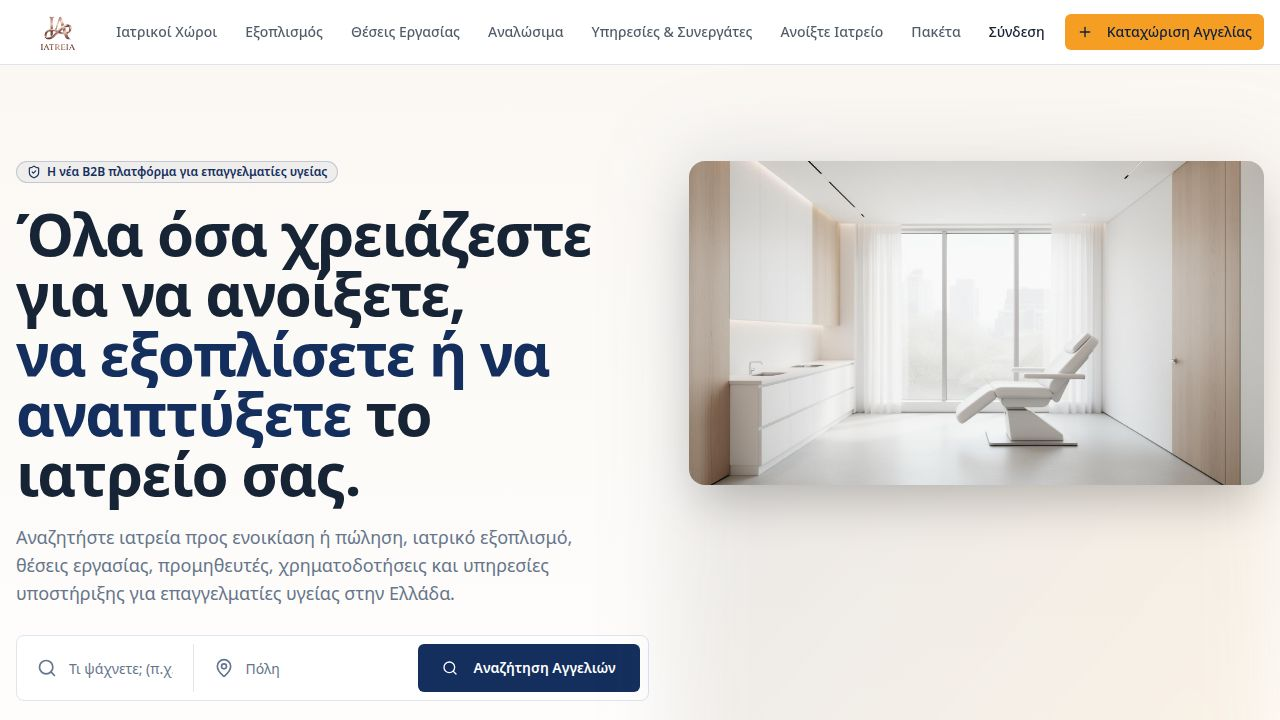
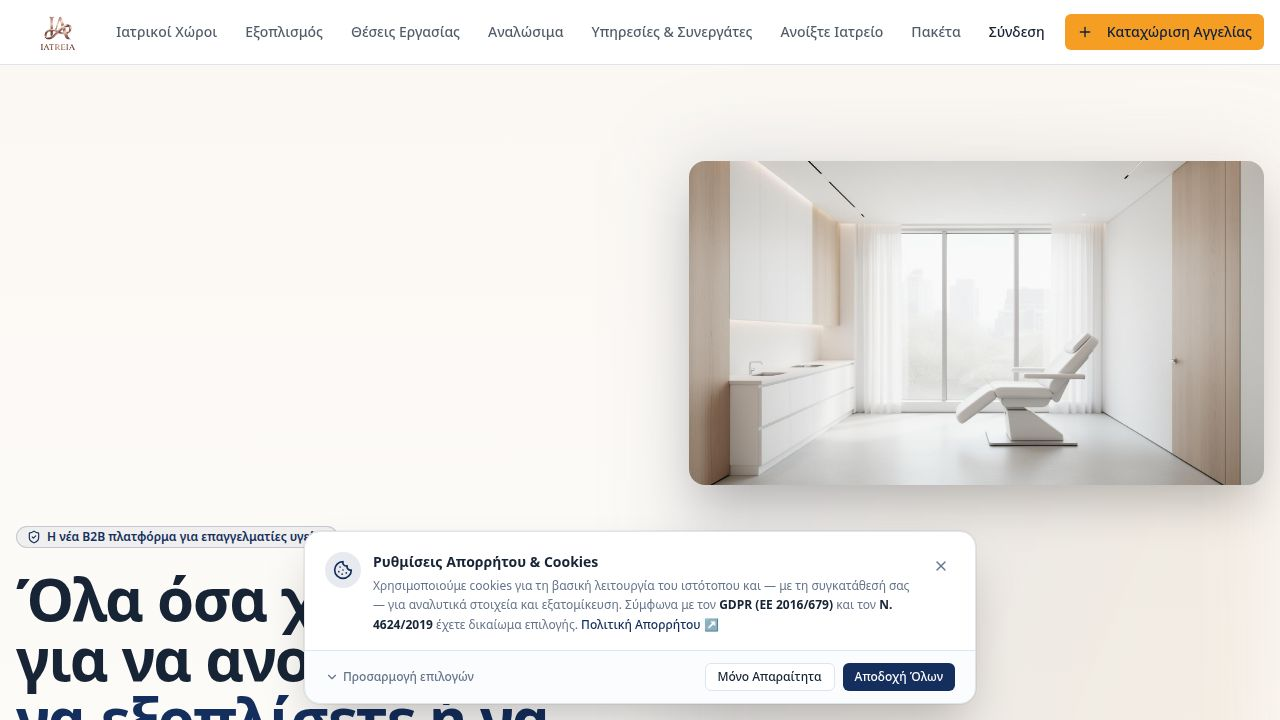
Update website with new images, subscription management, and refined messaging
Refactor the homepage hero section with a rotating image carousel, remove the "trend" box, add a Stripe customer portal link to the subscription management page, update pricing information, and remove all mentions of response time guarantees across various pages.

Replit-Commit-Author: Agent
Replit-Commit-Session-Id: 788615c2-4eec-48de-876c-6cf172338783
Replit-Commit-Checkpoint-Type: full_checkpoint
Replit-Commit-Event-Id: ce3a156c-f760-43ab-8e09-0117bb959b77
Replit-Commit-Screenshot-Url: https://storage.googleapis.com/screenshot-production-us-central1/d56ad37e-5b50-4c80-9c7e-87e08ae63d48/788615c2-4eec-48de-876c-6cf172338783/gmGPqKE
Replit-Helium-Checkpoint-Created: true

diff --git a/artifacts/iatreia/src/pages/Index.tsx b/artifacts/iatreia/src/pages/Index.tsx
@@ -2,7 +2,7 @@ import { useEffect, useState, type ComponentType } from "react";
 import { Link, useNavigate } from "react-router-dom";
 import {
   Search, MapPin, Building2, Stethoscope, Briefcase, Package, HandCoins,
-  ShieldCheck, ArrowRight, CheckCircle2, Sparkles, TrendingUp, Plus, Quote,
+  ShieldCheck, ArrowRight, CheckCircle2, Sparkles, Plus, Quote,
   Loader2,
 } from "lucide-react";
 import { Button } from "@/components/ui/button";
@@ -15,6 +15,13 @@ import { SiteFooter } from "@/components/layout/SiteFooter";
 import { ListingCard } from "@/components/listings/ListingCard";
 import { fetchFeaturedListings, fetchListingCounts, type DbListing, type ListingCounts } from "@/lib/listings";
 import heroImg from "@/assets/hero-clinic.jpg";
+
+const HERO_IMAGES = [
+  { src: heroImg, alt: "Σύγχρονο οδοντιατρείο" },
+  { src: "https://images.unsplash.com/photo-1576091160550-2173dba999ef?w=1600&q=80", alt: "Ιατρικό γραφείο" },
+  { src: "https://images.unsplash.com/photo-1551076805-e1869033e561?w=1600&q=80", alt: "Διαγνωστικό κέντρο" },
+  { src: "https://images.unsplash.com/photo-1519494026892-80bbd2d6fd0d?w=1600&q=80", alt: "Κλινική" },
+];
 
 type CategoryKey = keyof Omit<ListingCounts, "total">;
 
@@ -71,6 +78,12 @@ const Index = () => {
   const [featuredError, setFeaturedError] = useState(false);
   const [counts, setCounts] = useState<ListingCounts | null>(null);
   const [countsLoaded, setCountsLoaded] = useState(false);
+  const [heroIdx, setHeroIdx] = useState(0);
+
+  useEffect(() => {
+    const t = setInterval(() => setHeroIdx((i) => (i + 1) % HERO_IMAGES.length), 5000);
+    return () => clearInterval(t);
+  }, []);
 
   function handleHeroSearch(e: React.FormEvent) {
     e.preventDefault();
@@ -177,20 +190,25 @@ const Index = () => {
 
           <div className="relative hidden lg:block">
             <div className="absolute -inset-4 rounded-3xl bg-gradient-to-br from-primary/10 to-accent/10 blur-2xl" />
-            <img
-              src={heroImg}
-              alt="Σύγχρονος ιατρικός χώρος προς ενοικίαση στην Ελλάδα"
-              width={1600}
-              height={1024}
-              className="relative rounded-2xl object-cover shadow-2xl"
-            />
-            <Card className="absolute -bottom-6 -left-6 hidden w-64 p-4 shadow-2xl xl:block">
-              <div className="mb-1 flex items-center gap-2 text-xs font-semibold text-primary">
-                <TrendingUp className="h-4 w-4" /> ΤΑΣΗ
-              </div>
-              <div className="text-sm font-semibold">+38% νέες αγγελίες</div>
-              <div className="text-xs text-muted-foreground">τους τελευταίους 3 μήνες</div>
-            </Card>
+            {HERO_IMAGES.map((img, i) => (
+              <img
+                key={img.src}
+                src={img.src}
+                alt={img.alt}
+                width={1600}
+                height={1024}
+                className={`relative rounded-2xl object-cover shadow-2xl transition-opacity duration-1000 ${i === heroIdx ? "opacity-100" : "absolute inset-0 opacity-0"}`}
+              />
+            ))}
+            <div className="absolute bottom-4 right-4 flex gap-1.5">
+              {HERO_IMAGES.map((_, i) => (
+                <button
+                  key={i}
+                  onClick={() => setHeroIdx(i)}
+                  className={`h-1.5 rounded-full transition-all ${i === heroIdx ? "w-5 bg-white" : "w-1.5 bg-white/50"}`}
+                />
+              ))}
+            </div>
           </div>
         </div>
       </section>

diff --git a/artifacts/iatreia/src/components/PlanStatus.tsx b/artifacts/iatreia/src/components/PlanStatus.tsx
@@ -1,10 +1,12 @@
 import { Link } from "react-router-dom";
-import { ArrowRight, Sparkles } from "lucide-react";
+import { ArrowRight, Sparkles, CreditCard } from "lucide-react";
 import { Card, CardContent } from "@/components/ui/card";
 import { Badge } from "@/components/ui/badge";
 import { Button } from "@/components/ui/button";
 import { Progress } from "@/components/ui/progress";
 import { type SubscriptionStatus, PLAN_COLORS } from "@/lib/subscriptions";
+
+const STRIPE_PORTAL_URL = "https://billing.stripe.com/p/login/3cIcMY3dvdmx2ibgdtcbC00";
 
 type Props = {
   status: SubscriptionStatus;
@@ -61,22 +63,31 @@ export const PlanStatus = ({ status }: Props) => {
             </div>
           </div>
 
-          {nextPlan && (
-            <Button
-              asChild
-              size="sm"
-              variant={isAtLimit ? "default" : "outline"}
-              className={isAtLimit ? "shrink-0" : "shrink-0"}
-            >
-              <Link to={NEXT_PLAN_ROUTE[plan] ?? "/pricing"}>
-                <Sparkles className="mr-1.5 h-3.5 w-3.5" />
-                {isAtLimit
-                  ? `Αναβάθμιση σε ${nextPlan}`
-                  : `${remaining !== null ? `${remaining} εναπομείνασες θέσεις` : ""} · Αναβάθμιση`}
-                <ArrowRight className="ml-1.5 h-3.5 w-3.5" />
-              </Link>
-            </Button>
-          )}
+          <div className="flex shrink-0 flex-wrap gap-2">
+            {!isEnterprise && (
+              <Button asChild size="sm" variant="ghost">
+                <a href={STRIPE_PORTAL_URL} target="_blank" rel="noopener noreferrer">
+                  <CreditCard className="mr-1.5 h-3.5 w-3.5" />
+                  Συνδρομές & Τιμολόγια
+                </a>
+              </Button>
+            )}
+            {nextPlan && (
+              <Button
+                asChild
+                size="sm"
+                variant={isAtLimit ? "default" : "outline"}
+              >
+                <Link to={NEXT_PLAN_ROUTE[plan] ?? "/pricing"}>
+                  <Sparkles className="mr-1.5 h-3.5 w-3.5" />
+                  {isAtLimit
+                    ? `Αναβάθμιση σε ${nextPlan}`
+                    : `${remaining !== null ? `${remaining} εναπομείνασες θέσεις` : ""} · Αναβάθμιση`}
+                  <ArrowRight className="ml-1.5 h-3.5 w-3.5" />
+                </Link>
+              </Button>
+            )}
+          </div>
         </div>
       </CardContent>
     </Card>

diff --git a/artifacts/iatreia/src/pages/Report.tsx b/artifacts/iatreia/src/pages/Report.tsx
@@ -60,7 +60,7 @@ const Report = () => {
             <h1 className="mb-3 text-2xl font-bold">Αναφορά Υποβλήθηκε</h1>
             <p className="mb-6 text-muted-foreground">
               Σας ευχαριστούμε. Η ομάδα διαχείρισης της iatreia.gr θα εξετάσει την καταγγελία σας
-              και θα λάβει τα κατάλληλα μέτρα εντός 2 εργάσιμων ημερών.
+              και θα λάβει τα κατάλληλα μέτρα.
             </p>
             <div className="flex flex-col gap-2 sm:flex-row sm:justify-center">
               <Button asChild variant="outline">
@@ -174,14 +174,6 @@ const Report = () => {
               </ul>
             </div>
 
-            <div className="rounded-lg border bg-card p-5">
-              <h3 className="mb-2 font-semibold">Χρόνος Απόκρισης</h3>
-              <p className="text-muted-foreground">
-                Εξετάζουμε κάθε αναφορά εντός{" "}
-                <strong>2 εργάσιμων ημερών</strong>. Σοβαρές παραβιάσεις αντιμετωπίζονται
-                άμεσα.
-              </p>
-            </div>
 
             <div className="rounded-lg border bg-card p-5">
               <h3 className="mb-2 font-semibold">Άλλο πρόβλημα;</h3>

diff --git a/artifacts/iatreia/src/components/home/AskExperts.tsx b/artifacts/iatreia/src/components/home/AskExperts.tsx
@@ -6,7 +6,7 @@ import { Card } from "@/components/ui/card";
 const features = [
   { icon: Lock, title: "100% ανώνυμα", desc: "Κανένα όνομα, κανένα email στην ερώτησή σου." },
   { icon: ShieldCheck, title: "Πιστοποιημένοι ιατροί", desc: "Απαντούν μόνο επαληθευμένοι επαγγελματίες." },
-  { icon: Clock, title: "Απάντηση εντός 24h", desc: "Ειδοποίηση με email μόλις απαντήσει ειδικός." },
+  { icon: Clock, title: "Ειδοποίηση μέσω email", desc: "Λαμβάνεις ειδοποίηση μόλις απαντήσει ειδικός." },
 ];
 
 const AskExperts = () => (

diff --git a/artifacts/iatreia/src/pages/Ask.tsx b/artifacts/iatreia/src/pages/Ask.tsx
@@ -54,7 +54,7 @@ const Ask = () => {
           </div>
           <h1 className="text-4xl font-bold tracking-tight text-foreground">Ρώτα τους ειδικούς μας</h1>
           <p className="mt-3 text-muted-foreground">
-            Κάνε την ερώτησή σου ανώνυμα και πάρε αξιόπιστες απαντήσεις από πιστοποιημένους ιατρούς εντός 24 ωρών.
+            Κάνε την ερώτησή σου ανώνυμα και πάρε αξιόπιστες απαντήσεις από πιστοποιημένους ιατρούς.
           </p>
         </div>
       </section>

diff --git a/artifacts/iatreia/src/pages/ClinicLaunch.tsx b/artifacts/iatreia/src/pages/ClinicLaunch.tsx
@@ -68,7 +68,7 @@ const ClinicLaunch = () => (
           <div className="flex-1">
             <p className="font-bold text-foreground">Προσφέρετε υπηρεσίες ανοίγματος ιατρείου;</p>
             <p className="mt-0.5 text-sm text-muted-foreground">
-              Αποκτήστε αφιερωμένη σελίδα με πλήρη πρόταση, logo, website link & φόρμα επικοινωνίας απευθείας από γιατρούς. Εφάπαξ €1.499.
+              Αποκτήστε αφιερωμένη σελίδα με πλήρη πρόταση, logo, website link & φόρμα επικοινωνίας απευθείας από γιατρούς. Από €999.
             </p>
           </div>
           <Button asChild className="shrink-0">

diff --git a/artifacts/iatreia/src/pages/Contact.tsx b/artifacts/iatreia/src/pages/Contact.tsx
@@ -22,7 +22,7 @@ const Contact = () => {
           <Badge variant="secondary" className="mb-4">Επικοινωνία</Badge>
           <h1 className="text-4xl font-bold tracking-tight md:text-5xl">Πώς μπορούμε να βοηθήσουμε;</h1>
           <p className="mt-4 text-muted-foreground">
-            Στείλτε μας μήνυμα — απαντάμε εντός 1 εργάσιμης ημέρας.
+            Στείλτε μας μήνυμα και θα επικοινωνήσουμε μαζί σας.
           </p>
         </div>
       </section>

diff --git a/artifacts/iatreia/src/pages/ListingsPolicy.tsx b/artifacts/iatreia/src/pages/ListingsPolicy.tsx
@@ -78,7 +78,7 @@ const ListingsPolicy = () => {
             <h2 className="mb-3 text-xl font-semibold">4. Διαδικασία Ελέγχου και Έγκρισης</h2>
             <p>
               Κάθε αγγελία υπόκειται σε έλεγχο (moderation) από την ομάδα μας προτού δημοσιευτεί.
-              Ο χρόνος ελέγχου είναι συνήθως εντός 1 εργάσιμης ημέρας. Η Εταιρεία διατηρεί το δικαίωμα
+              Η Εταιρεία διατηρεί το δικαίωμα
               να:
             </p>
             <ul className="list-disc pl-6 mt-2 space-y-1">

diff --git a/artifacts/iatreia/src/pages/listings/index.tsx b/artifacts/iatreia/src/pages/listings/index.tsx
@@ -18,7 +18,7 @@ const ServicesCTA = () => (
     <div className="flex-1">
       <p className="font-bold text-foreground">Είστε πάροχος υπηρεσιών;</p>
       <p className="mt-0.5 text-sm text-muted-foreground">
-        Αποκτήστε αφιερωμένη σελίδα με περιγραφή, πρόταση συνεργασίας & φόρμα επικοινωνίας. Εφάπαξ €1.499.
+        Αποκτήστε αφιερωμένη σελίδα με περιγραφή, πρόταση συνεργασίας & φόρμα επικοινωνίας. Από €999.
       </p>
     </div>
     <Button asChild className="shrink-0">